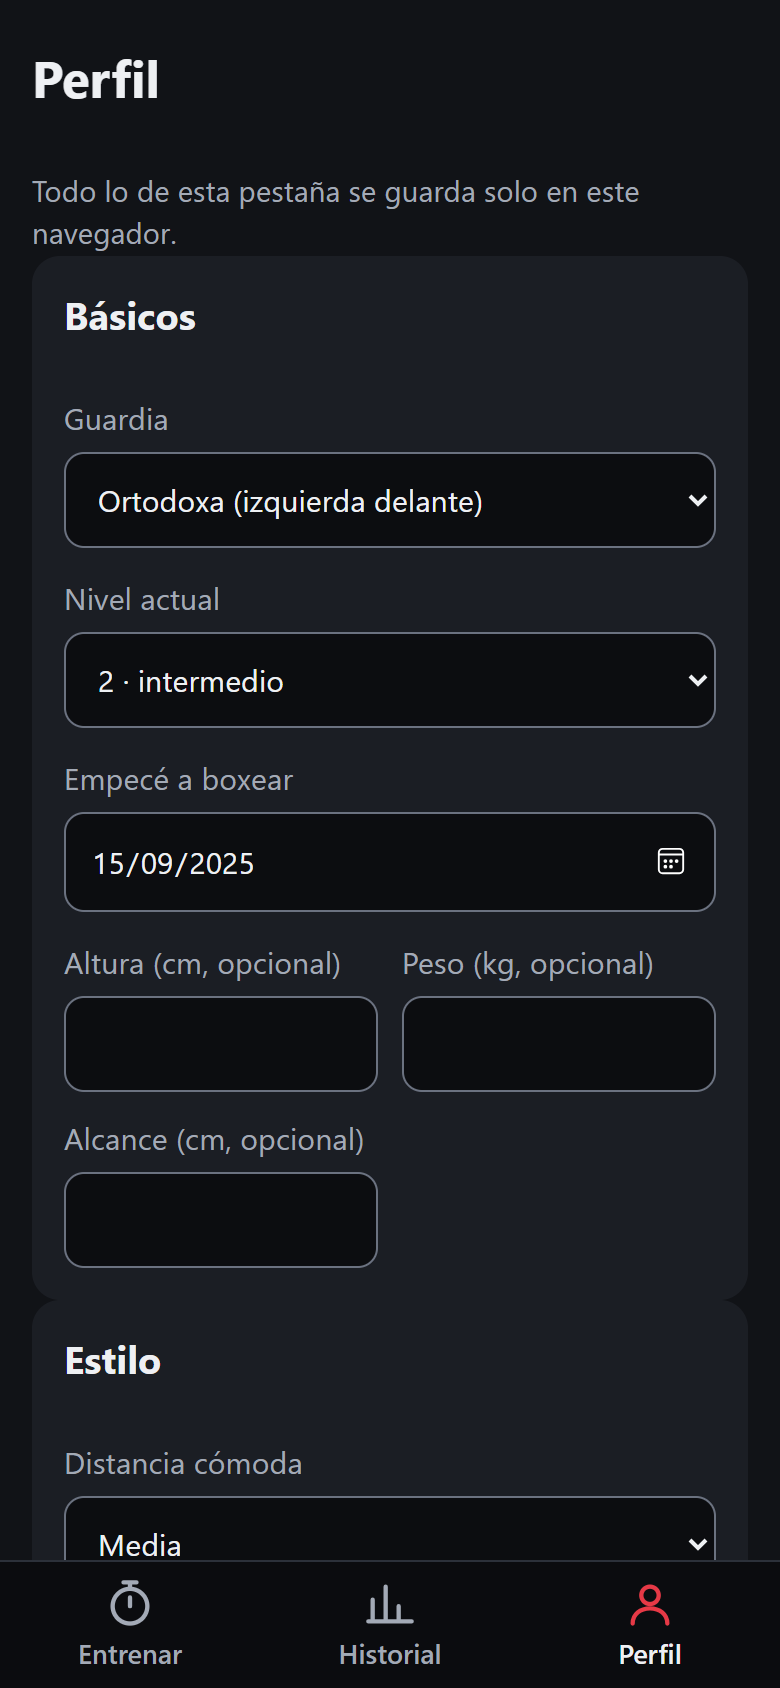
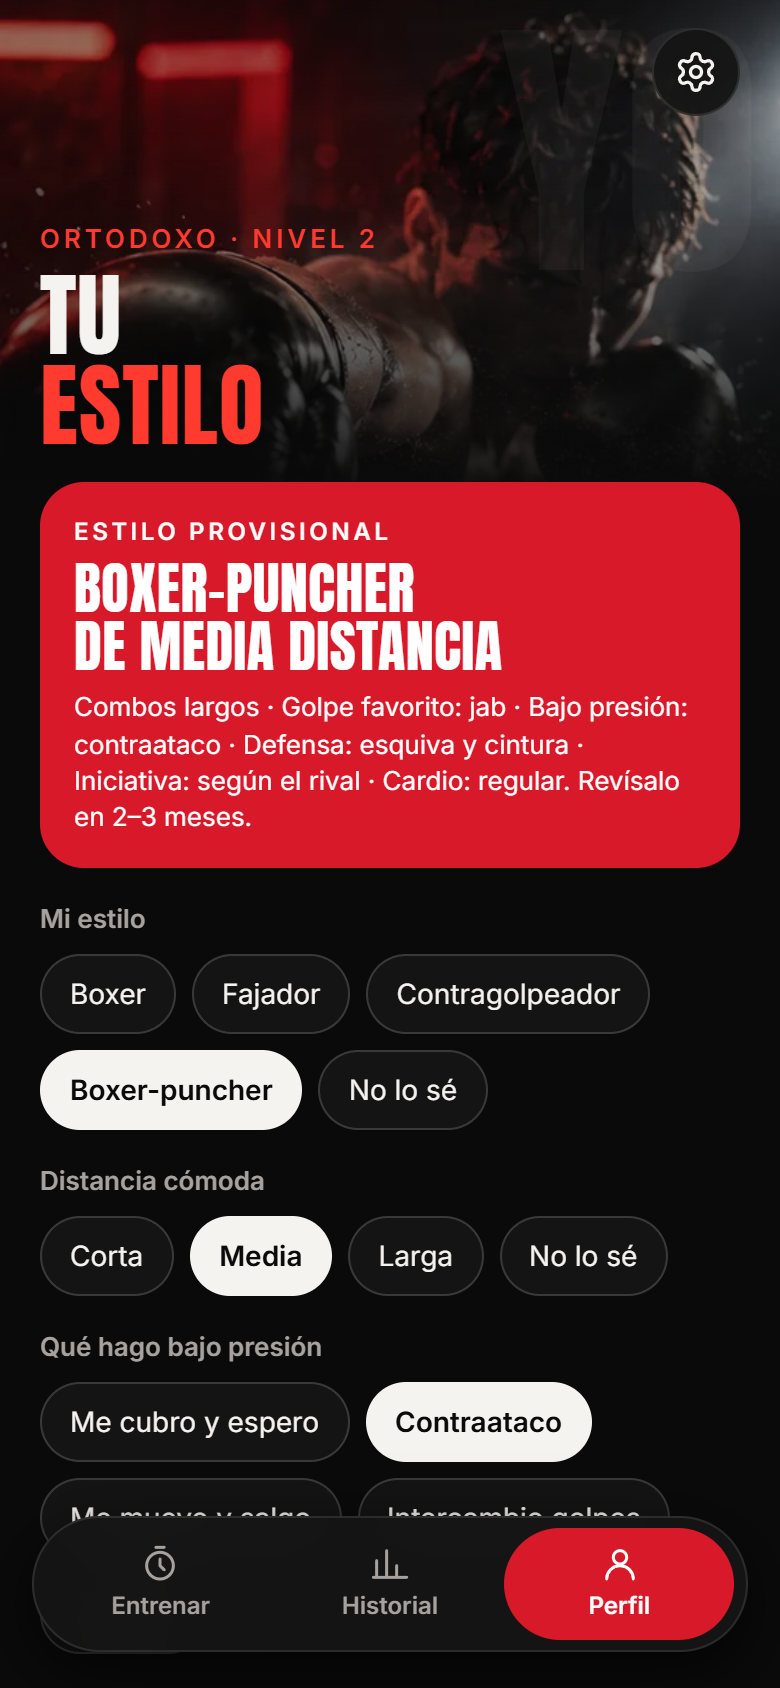
README: nueva captura de Perfil con el estilo provisional

diff --git a/README.md b/README.md
@@ -14,7 +14,7 @@ es una PWA instalable y todo se calcula en el dispositivo.
 
 | Valoración | Historial | Perfil |
 |:---:|:---:|:---:|
-| <img src="docs/capturas/postsesion.png" width="190" alt="Formulario post-sesión con RPE del 1 al 10, sensación del 1 al 5 y notas"> | <img src="docs/capturas/historial.png" width="190" alt="Historial: resumen de la semana y del mes, asaltos por semana en barras y RPE medio en línea"> | <img src="docs/capturas/perfil.png" width="190" alt="Perfil: guardia, nivel, fecha de inicio y medidas opcionales"> |
+| <img src="docs/capturas/postsesion.png" width="190" alt="Formulario post-sesión con RPE del 1 al 10, sensación del 1 al 5 y notas"> | <img src="docs/capturas/historial.png" width="190" alt="Historial: resumen de la semana y del mes, asaltos por semana en barras y RPE medio en línea"> | <img src="docs/capturas/perfil.png" width="190" alt="Perfil: tarjeta roja con el estilo provisional (boxer-puncher de media distancia) y las preguntas de estilo en chips"> |
 
 <sub>Capturas con datos de ejemplo.</sub>
 
